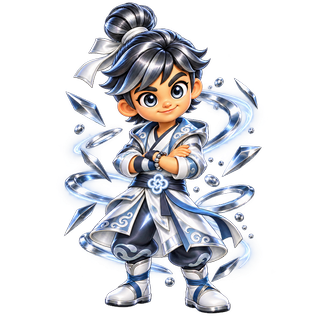
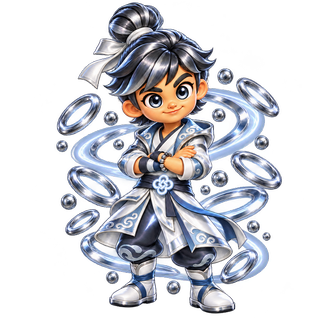
Surge complete: Titan joins, so all five forms for all seven Keepers (Codex brief 16b)
Titan is repainted as matte sandstone with amber crystal tips and
pebbles, no inner glow or flame shapes, so earth no longer reads as Nova;
earth players now surge too. Chrome's shards became polished rings and
beads, and Sina's Chrome and Mateo's Nova wear the four-loop Qi Knot.

diff --git a/level1/index.html b/level1/index.html
@@ -5276,15 +5276,15 @@ const FORM_PAL = { fire:['#FF8A3A', '#FFB35A', '#FF6A2A', '#FFD08A', '#FF9A4A'],
   metal:['#C9D3DB', '#E8EEF6', '#9AA8B8', '#FFFFFF', '#B8C4D8'] };
 // the forms Codex has painted so far (brief 15, complete 2026-10-07: Nova and Tidal for all seven; brief 16 brings Wild, Titan and
 // Chrome); until a form's art lands, its poster and its ride show the Keeper in the element's light
-// brief 16 landed 2026-10-08; Titan waits (design review: its glowing veins and flame-shaped hair read as Nova) until Codex's redo (brief 16b)
-const SURGE_ART = Object.fromEntries([1, 2, 3, 4, 5, 6, 7].map(k => [k, ['nova', 'tidal', 'wild', 'chrome']]));
+// brief 16 landed 2026-10-08, and 16b's matte-sandstone Titan the same day: all five forms for all seven Keepers
+const SURGE_ART = Object.fromEntries([1, 2, 3, 4, 5, 6, 7].map(k => [k, ['nova', 'tidal', 'wild', 'titan', 'chrome']]));
 const formKey = () => FORM[keeperEl].toLowerCase();
 // a form only surges once Codex has painted it; until then this Keeper and element have no Surge at all (A, 2026-10-07: "since
 // none of the images are done we can hold off on the transformations that dont have them yet")
 const surgeArt = () => (SURGE_ART[keeper] || []).includes(formKey());
 function formArt() {
   const k = formKey(), n = 'k' + keeper + '-' + k;
-  if ((SURGE_ART[keeper] || []).includes(k)) { if (!IMG[n]) load(n, `art4/surge/k${keeper}-${k}.png?v=3`); if (ok(IMG[n])) return IMG[n]; }
+  if ((SURGE_ART[keeper] || []).includes(k)) { if (!IMG[n]) load(n, `art4/surge/k${keeper}-${k}.png?v=4`); if (ok(IMG[n])) return IMG[n]; }
   return IMG['k' + keeper];
 }
 const SG = () => S.surge || (S.surge = { q:0, ready:false, used:false, on:null });
